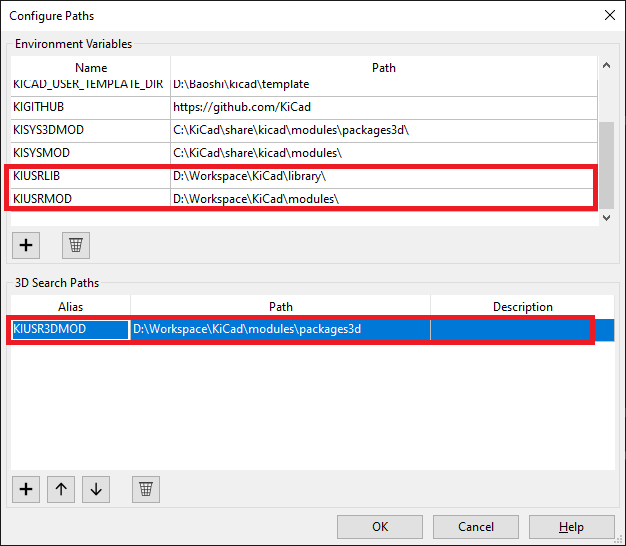
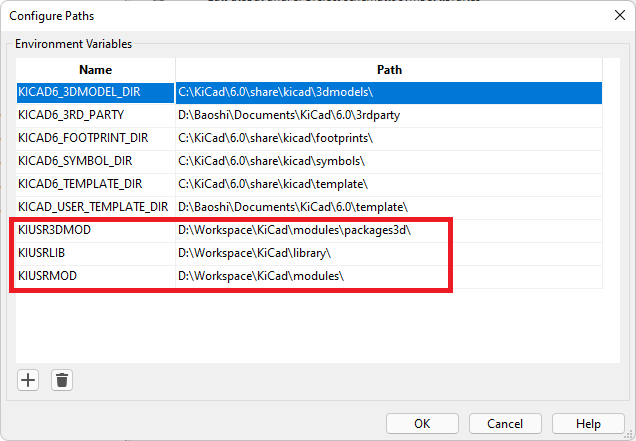
Update for KiCad6

diff --git a/README.md b/README.md
@@ -9,7 +9,7 @@ Refer to the following picture for environment variable configuration
 
 ![Config Paths](https://github.com/baoshi/KiCad/raw/master/doc/images/KiCad-Library-Environment-Variables.png "Config Paths")
 
-Copyright (c) 2019, Baoshi Zhu. All rights reserved.
+Copyright (c) 2021, Baoshi Zhu. All rights reserved.
 
 Source code in this project is governed by Apache License 2.0 (http://www.apache.org/licenses/LICENSE-2.0)
 
